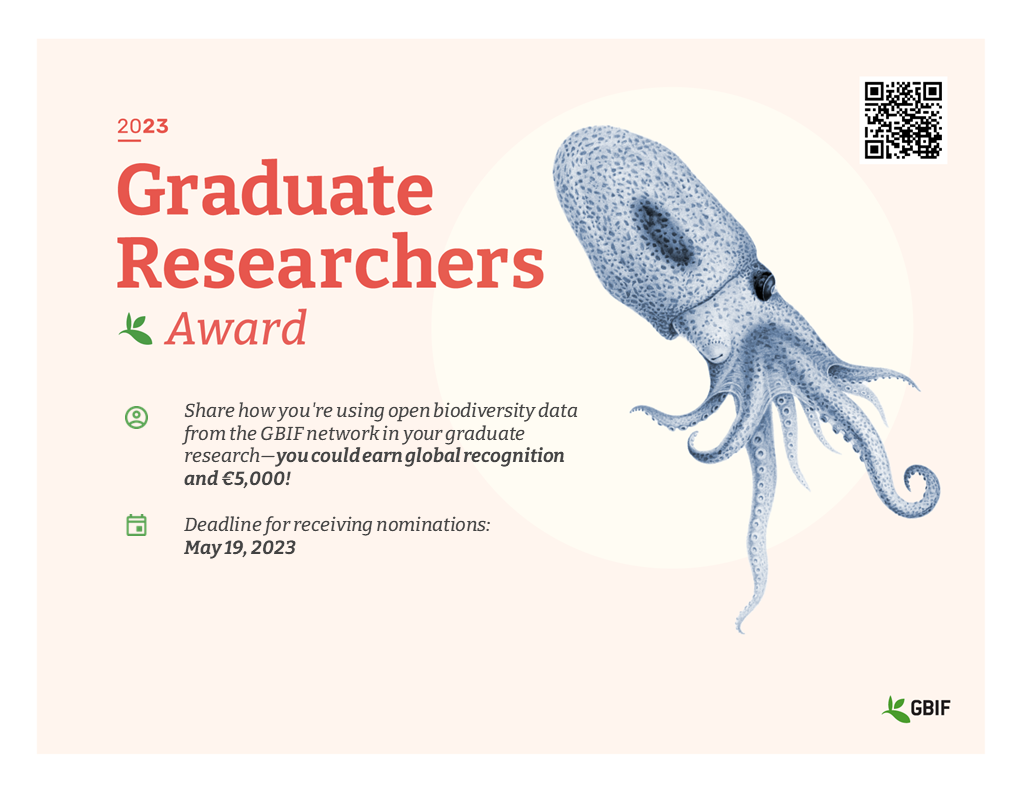
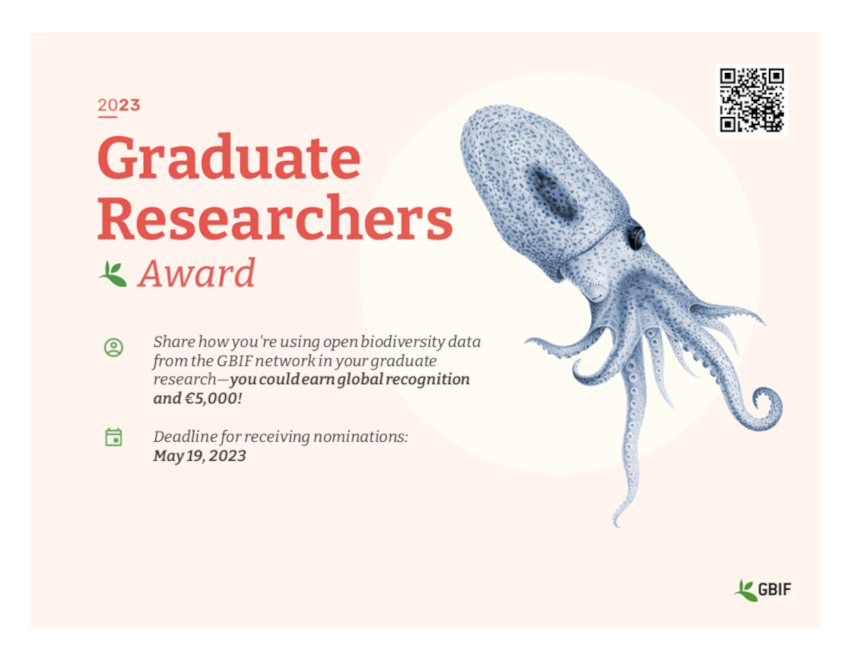
revise GRA post

diff --git a/_posts/2023-01-29-GBIF-Graduate-Researchers-Award-call.md b/_posts/2023-01-29-GBIF-Graduate-Researchers-Award-call.md
@@ -2,7 +2,7 @@
 title: "GBIF Graduate Researchers Award Call" 
 date: 2023-01-30 12:00:00 -0500 
 categories: ["Announcement"] 
-background: /assets/images/GRA_GBIF.png{:height="100%"}
+background: /assets/images/GRA_GBIF.png
 preTitle: February 01, 2023
 ---
 
